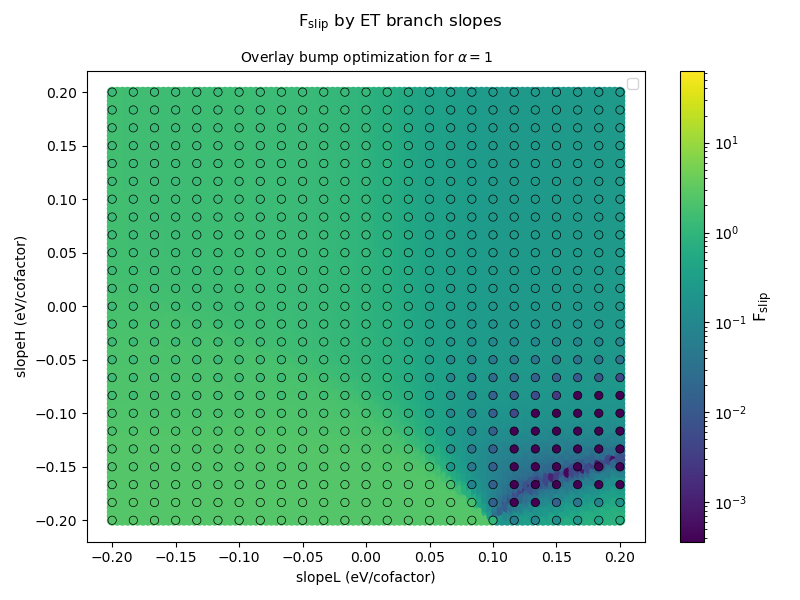
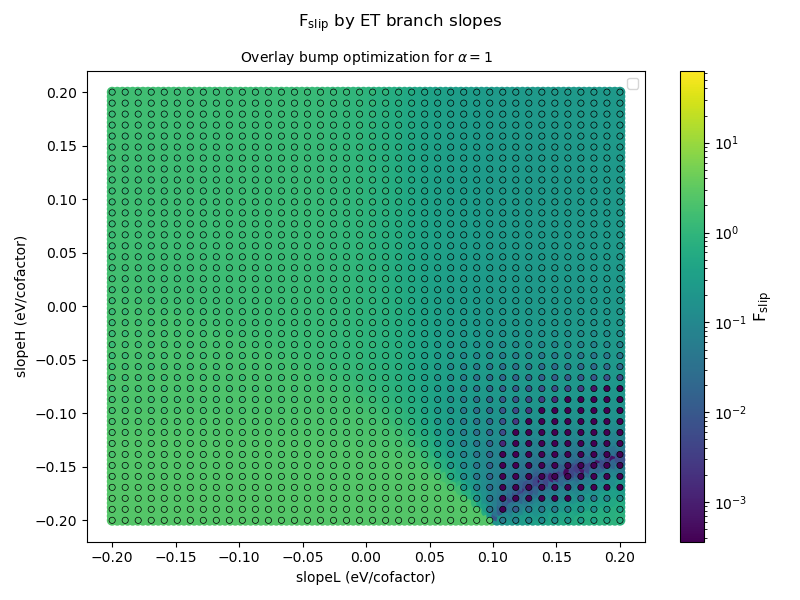
denser ramp w/ bump overlay plots

Changed region(s): [[0.125, 0.15, 0.7812, 0.87]]

diff --git a/plots_bump.py b/plots_bump.py
@@ -40,7 +40,7 @@ def grid_Fslip(F_slip_w, F_yield_w, slopeL_r, slopeH_r, slopeL_b, slopeH_b, F_sl
     cbar.set_label(r'$\mathrm{F}_{\mathrm{slip}}$', fontsize=12)
 
     # overlay bump points
-    plt.scatter(slopeL_b, slopeH_b, c=F_slip_b, cmap='viridis', norm=norm, marker='o', edgecolor='black', linewidths=0.5)
+    plt.scatter(slopeL_b, slopeH_b, c=F_slip_b, cmap='viridis', s=20, norm=norm, marker='o', edgecolor='black', linewidths=0.5)
 
     # labels
     plt.suptitle(r'$\mathrm{F}_{\mathrm{slip}}$ by ET branch slopes')
@@ -73,7 +73,7 @@ def grid_Fyield(F_slip_w, F_yield_w, slopeL_r, slopeH_r, slopeL_b, slopeH_b, F_y
     cbar.set_label(r'$\mathrm{F}_{\mathrm{yield}}$', fontsize=12)
 
     # overlay bump points
-    plt.scatter(slopeL_b, slopeH_b, c=F_yield_b, cmap='viridis', norm=norm, marker='o', edgecolor='black', linewidths=0.5)
+    plt.scatter(slopeL_b, slopeH_b, c=F_yield_b, cmap='viridis', s=20, norm=norm, marker='o', edgecolor='black', linewidths=0.5)
 
     # labels
     plt.suptitle(r'$\mathrm{F}_{\mathrm{yield}}$ by ET branch slopes')
@@ -259,26 +259,28 @@ def Nfn1_slopeH_Fyield_distrib(df):
     plt.show()
 
 if __name__ == '__main__':
-    # === ramps ===
+    # === ramps w/ bump overlay ===
     '''
     ramps_w = pd.read_csv("ramps_whole_20250612.csv")
     F_slip_w = ramps_w["F_slip"]
     F_yield_w = ramps_w["F_yield"]
 
-    ramps = pd.read_csv("ramps_corner_20250612.csv")
+    ramps = pd.read_csv("ramps_whole_20250612.csv")
     slopeL_r = ramps["slopeL"]
     slopeH_r = ramps["slopeH"]
     F_slip_r = ramps["F_slip"]
     F_yield_r = ramps["F_yield"]
 
-    bump = pd.read_csv('BestBump_alpha1_corner_update_20250612.csv')
+    bump = pd.read_csv('BestBump_alpha1_whole_20250618.csv')
     slopeL_b = bump['slopeL']
     slopeH_b = bump['slopeH']
     F_slip_b = bump["F_slip"]
     F_yield_b = bump["F_yield"]
    
-    # choose function here
+    grid_Fslip(F_slip_w, F_yield_w, slopeL_r, slopeH_r, slopeL_b, slopeH_b, F_slip_r, F_slip_b)
+    grid_Fyield(F_slip_w, F_yield_w, slopeL_r, slopeH_r, slopeL_b, slopeH_b, F_yield_r, F_yield_b)
     '''
+    
     '''
     # === bump vs ramp plots ===
     ramps = pd.read_csv("ramps_corner_bif_20250612.csv")
@@ -323,7 +325,7 @@ if __name__ == '__main__':
 
     constant_bump_v_ramp(slopeL, F_slip_diff)
     '''
-    
+    '''
     # === Nfn-1 vary slopeH ===
     df_bump = pd.read_csv("Nfn1_vary_slopeH_bump_20250618.csv")
     df_ramp = pd.read_csv("Nfn1_vary_slopeH_ramp_20250618.csv")
@@ -335,4 +337,4 @@ if __name__ == '__main__':
     #Nfn1_slopeH_Fslip_distrib(df_ramp) 
     #Nfn1_slopeH_Fyield_distrib(df_bump)   
     #Nfn1_slopeH_Fyield_distrib(df_ramp) 
-
+    '''
